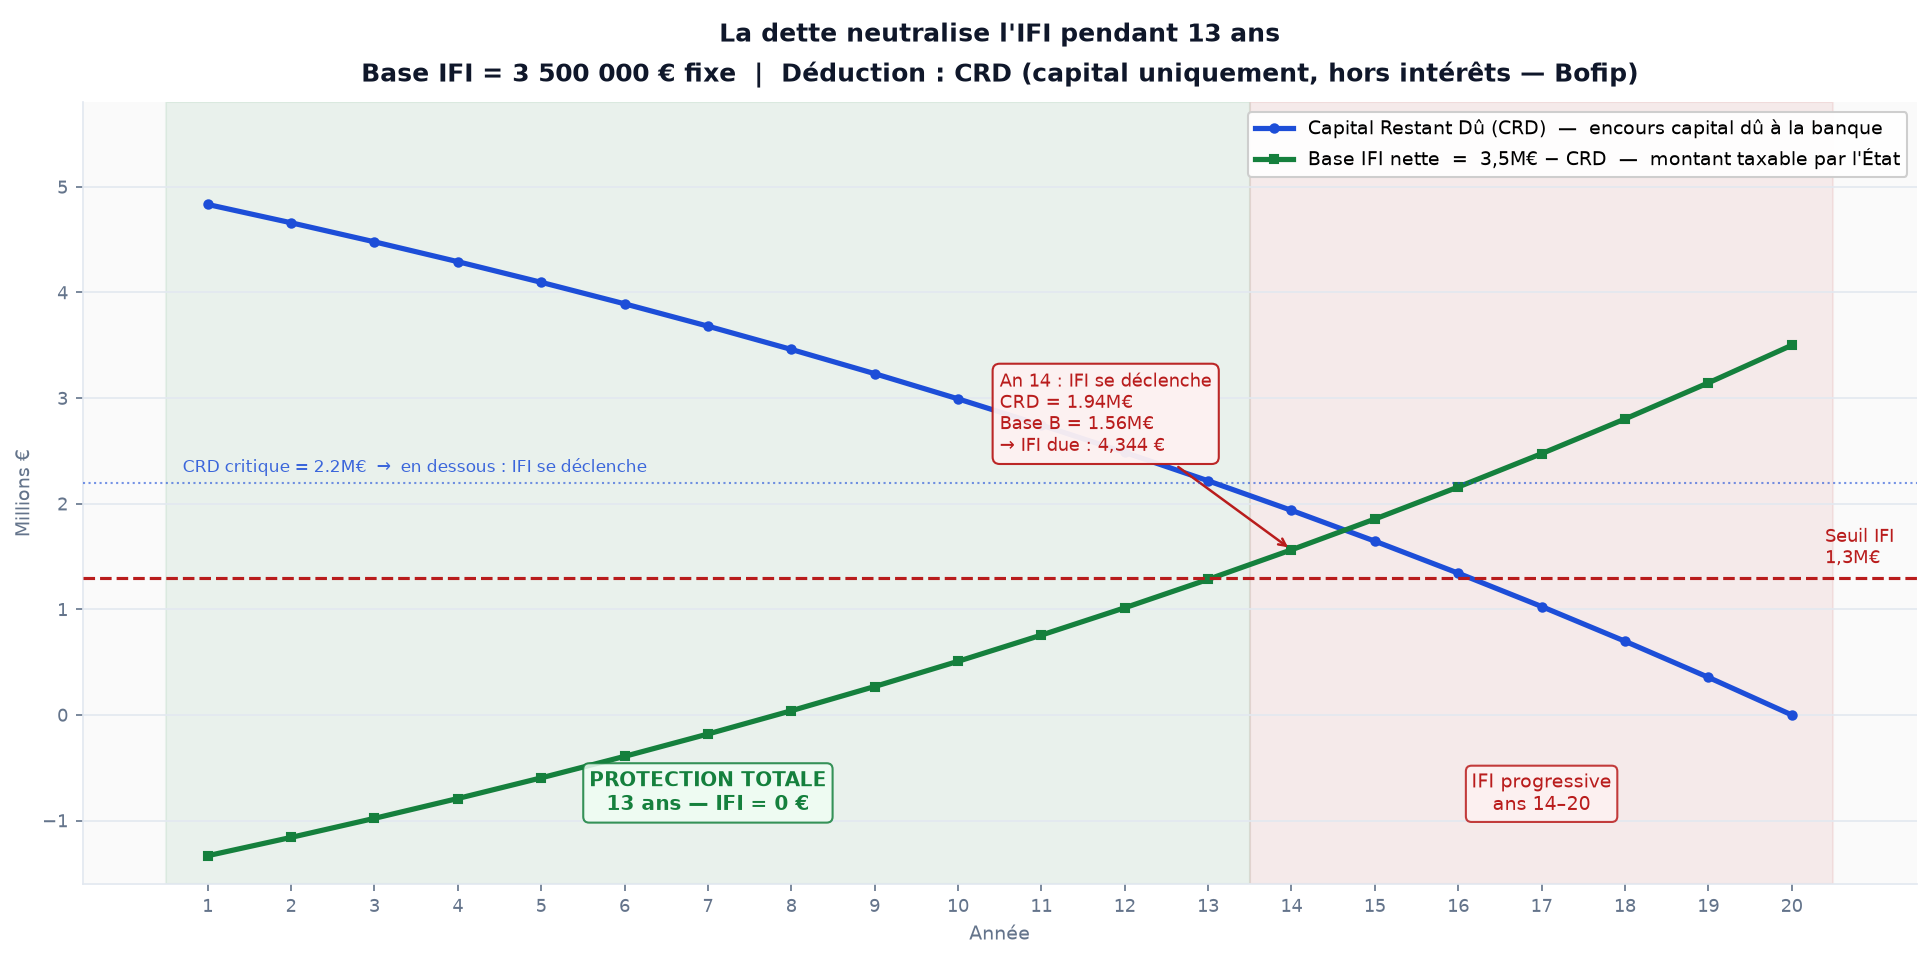
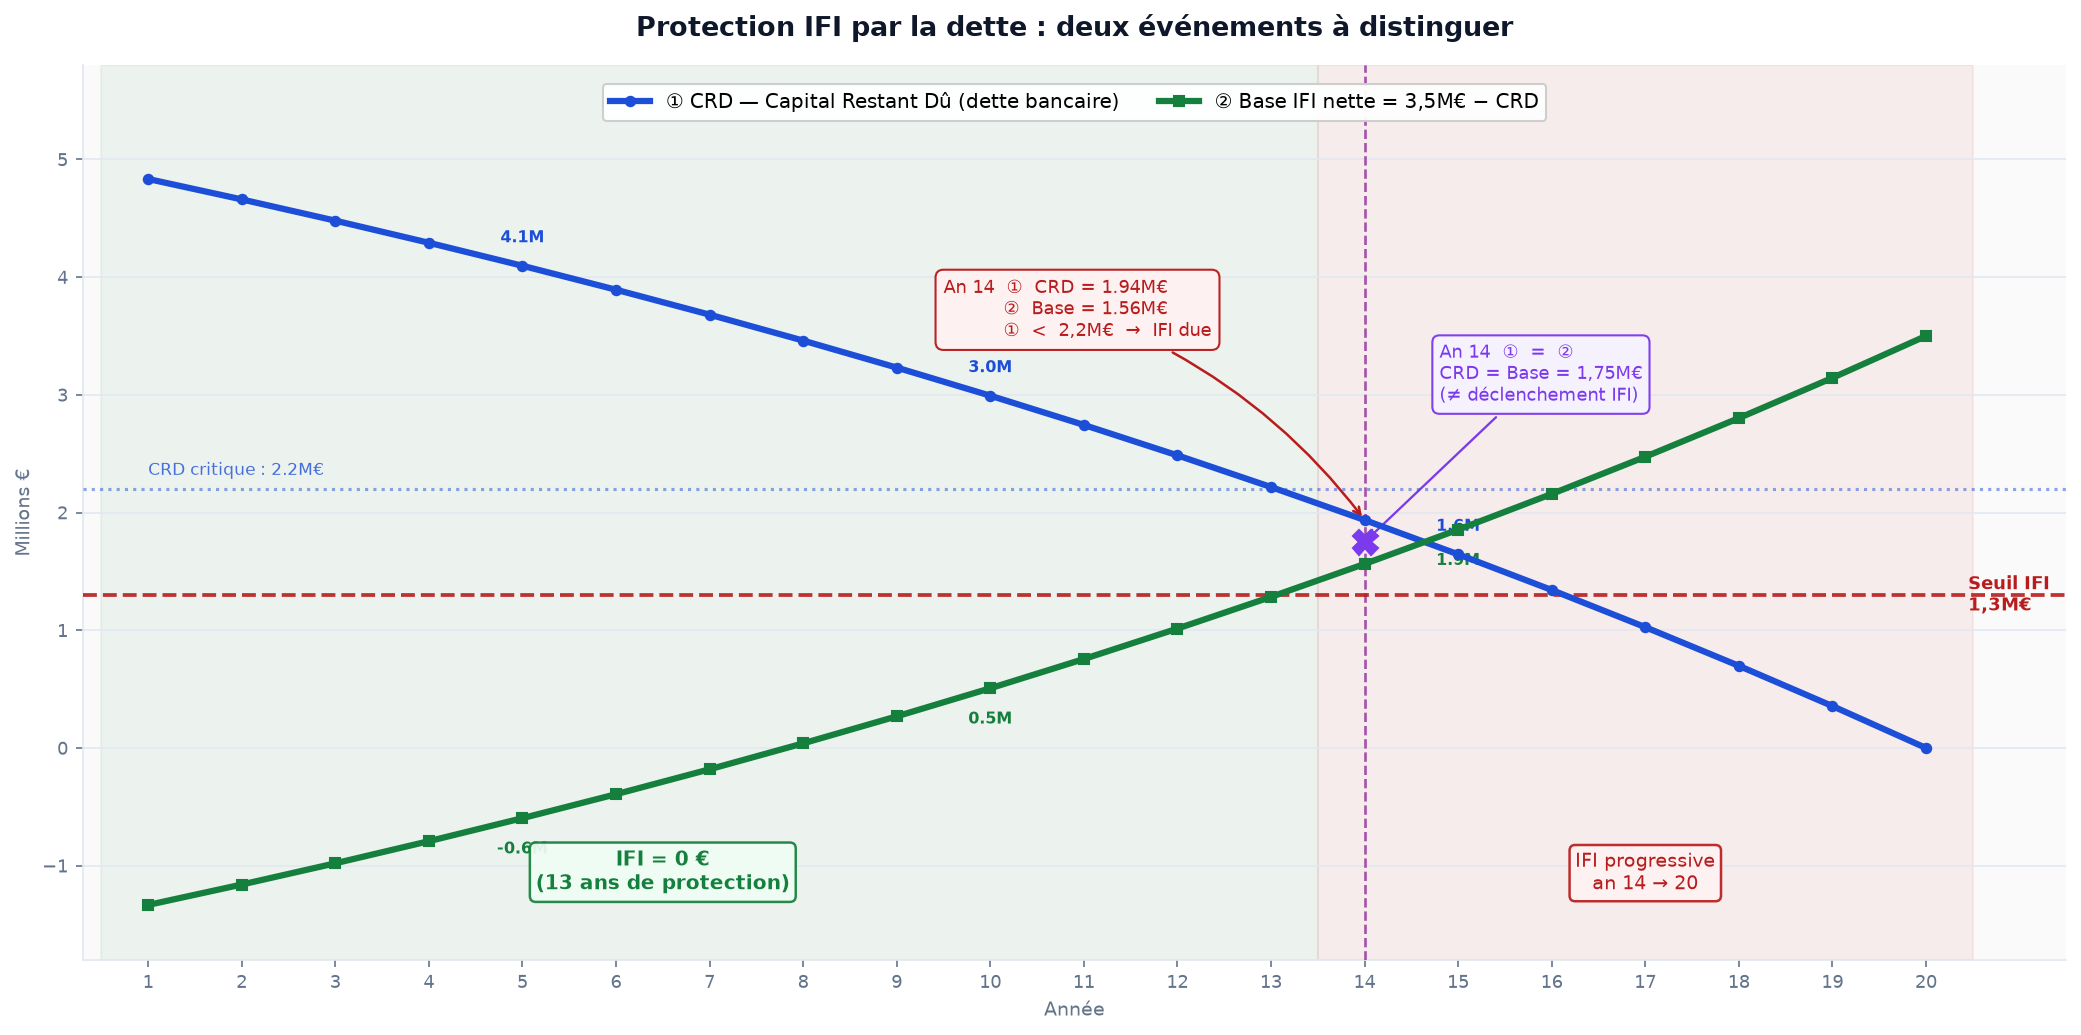
Redesign visuel 1 : deux événements IFI distincts (déclenchement an 14 vs croisement courbes an 17)
Claude-Session: https://claude.ai/code/session_01H9zCSvVdnYm3pCXXkzifcK

diff --git a/graphiques_ifi.py b/graphiques_ifi.py
@@ -138,55 +138,108 @@ def base_ax(ax, title, subtitle='', xlabel='Année', ylabel=''):
     for sp in ['left', 'bottom']: ax.spines[sp].set_color(GRILLE)
 
 # ==============================================================================
-# VISUEL 1 — CRD vs Base IFI (inchangé, toujours correct)
+# VISUEL 1 — CRD vs Base IFI — redesigné : épuré, deux événements distincts
 # ==============================================================================
-fig1, ax = plt.subplots(figsize=(13, 6.5))
+import numpy as np
+
+fig1, ax = plt.subplots(figsize=(14, 7))
 fig1.patch.set_facecolor('white')
+ax.set_facecolor('#FAFAFA')
 
 crds    = [d['crd_fin'] / 1e6 for d in data]
 base_bs = [d['base_B']  / 1e6 for d in data]
 an_decl = next(d['an'] for d in data if d['ifi_B'] > 0)
 
-ax.axvspan(0.5, an_decl - 0.5, alpha=0.07, color=VERT,  zorder=1)
-ax.axvspan(an_decl - 0.5, 20.5, alpha=0.07, color=ROUGE, zorder=1)
+# ── Trouver l'an de croisement des deux courbes (CRD = base_B → CRD = 1,75M€)
+an_crois = next(
+    (data[i]['an'] for i in range(len(data) - 1)
+     if crds[i] >= base_bs[i] and crds[i+1] <= base_bs[i+1]),
+    None
+)
 
-ax.plot(ans, crds,    color=BLEU, lw=2.5, marker='o', ms=4,
-        label='Capital Restant Dû (CRD)  —  encours capital dû à la banque')
-ax.plot(ans, base_bs, color=VERT, lw=2.5, marker='s', ms=4,
-        label='Base IFI nette  =  3,5M€ − CRD  —  montant taxable par l\'État')
+# ── Zones colorées épurées
+ax.axvspan(0.5, an_decl - 0.5, alpha=0.06, color=VERT,  zorder=1)
+ax.axvspan(an_decl - 0.5, 20.5, alpha=0.06, color=ROUGE, zorder=1)
 
-ax.axhline(IFI_SEUIL / 1e6, color=ROUGE, lw=1.5, linestyle='--', zorder=4)
-ax.text(20.4, IFI_SEUIL / 1e6 + 0.08, "Seuil IFI\n1,3M€", fontsize=8.5, color=ROUGE, va='bottom')
+# ── Courbes principales
+ax.plot(ans, crds,    color=BLEU, lw=3, marker='o', ms=4.5, zorder=5,
+        label='① CRD — Capital Restant Dû (dette bancaire)')
+ax.plot(ans, base_bs, color=VERT, lw=3, marker='s', ms=4.5, zorder=5,
+        label='② Base IFI nette = 3,5M€ − CRD')
 
+# ── Ligne seuil IFI 1,3M€
+ax.axhline(IFI_SEUIL / 1e6, color=ROUGE, lw=1.8, linestyle='--', zorder=4, alpha=0.9)
+ax.text(20.45, IFI_SEUIL / 1e6, "Seuil IFI\n1,3M€",
+        fontsize=8.5, color=ROUGE, va='center', fontweight='bold')
+
+# ── Ligne CRD critique 2,2M€
 crd_crit = (BASE_IFI_FIXE - IFI_SEUIL) / 1e6
-ax.axhline(crd_crit, color=BLEU, lw=1, linestyle=':', alpha=0.6, zorder=4)
-ax.text(0.7, crd_crit + 0.1,
-        f"CRD critique = {crd_crit:.1f}M€  →  en dessous : IFI se déclenche",
-        fontsize=8, color=BLEU, alpha=0.85)
+ax.axhline(crd_crit, color=BLEU, lw=1.5, linestyle=':', alpha=0.5, zorder=4)
+ax.text(1, crd_crit + 0.12, f"CRD critique : {crd_crit:.1f}M€",
+        fontsize=8, color=BLEU, alpha=0.8)
 
+# ── ÉVÉNEMENT A : Déclenchement IFI (an 14) — annotation épurée sur la courbe
 d_decl = data[an_decl - 1]
+ax.axvline(an_decl, color=ROUGE, lw=1.2, linestyle='--', alpha=0.6, zorder=3)
+# Encadré mathématique sobre
 ax.annotate(
-    f"An {an_decl} : IFI se déclenche\nCRD = {d_decl['crd_fin']/1e6:.2f}M€\n"
-    f"Base B = {d_decl['base_B']/1e6:.2f}M€\n→ IFI due : {d_decl['ifi_B']:,.0f} €",
-    xy=(an_decl, d_decl['base_B'] / 1e6), xytext=(an_decl - 3.5, 2.5),
+    f"An {an_decl}  ①  CRD = {d_decl['crd_fin']/1e6:.2f}M€\n"
+    f"          ②  Base = {d_decl['base_B']/1e6:.2f}M€\n"
+    f"          ①  <  2,2M€  →  IFI due",
+    xy=(an_decl, d_decl['crd_fin'] / 1e6),
+    xytext=(an_decl - 4.5, 3.5),
     fontsize=8.5, color=ROUGE,
-    arrowprops=dict(arrowstyle='->', color=ROUGE, lw=1.2),
-    bbox=dict(boxstyle='round,pad=0.4', facecolor='#FEF2F2', edgecolor=ROUGE, alpha=0.95))
+    arrowprops=dict(arrowstyle='->', color=ROUGE, lw=1.2, connectionstyle='arc3,rad=-0.15'),
+    bbox=dict(boxstyle='round,pad=0.45', facecolor='#FEF2F2', edgecolor=ROUGE, alpha=0.97))
 
-ax.text((an_decl - 1) / 2 + 0.5, -0.9,
-        f"PROTECTION TOTALE\n{an_decl - 1} ans — IFI = 0 €",
+# ── ÉVÉNEMENT B : Croisement des courbes — si trouvé
+if an_crois:
+    d_crois = data[an_crois - 1]
+    mid_y   = (crds[an_crois - 1] + base_bs[an_crois - 1]) / 2
+    ax.axvline(an_crois, color='#7C3AED', lw=1.2, linestyle='--', alpha=0.55, zorder=3)
+    ax.plot(an_crois, mid_y, marker='X', ms=12, color='#7C3AED', zorder=6)
+    ax.annotate(
+        f"An {an_crois}  ①  =  ②\nCRD = Base = 1,75M€\n(≠ déclenchement IFI)",
+        xy=(an_crois, mid_y),
+        xytext=(an_crois + 0.8, mid_y + 1.2),
+        fontsize=8.5, color='#7C3AED',
+        arrowprops=dict(arrowstyle='->', color='#7C3AED', lw=1.1),
+        bbox=dict(boxstyle='round,pad=0.4', facecolor='#F5F3FF', edgecolor='#7C3AED', alpha=0.97))
+
+# ── Labels directs sur les courbes (an 5 et an 15)
+for an_lbl in [5, 10, 15]:
+    i = an_lbl - 1
+    ax.text(an_lbl, crds[i] + 0.2,    f"{crds[i]:.1f}M",
+            ha='center', fontsize=7.5, color=BLEU, fontweight='bold')
+    ax.text(an_lbl, base_bs[i] - 0.3, f"{base_bs[i]:.1f}M",
+            ha='center', fontsize=7.5, color=VERT, fontweight='bold')
+
+# ── Étiquettes de zone (texte minimal)
+ax.text(6.5, -1.2, f"IFI = 0 €\n(13 ans de protection)",
         ha='center', fontsize=9.5, color=VERT, fontweight='bold',
-        bbox=dict(boxstyle='round', facecolor='#F0FDF4', edgecolor=VERT, alpha=0.85))
-ax.text((an_decl + 20) / 2, -0.9,
-        f"IFI progressive\nans {an_decl}–20",
+        bbox=dict(boxstyle='round', facecolor='#F0FDF4', edgecolor=VERT, lw=1.2, alpha=0.92))
+ax.text(17, -1.2, "IFI progressive\nan 14 → 20",
         ha='center', fontsize=9, color=ROUGE,
-        bbox=dict(boxstyle='round', facecolor='#FEF2F2', edgecolor=ROUGE, alpha=0.85))
+        bbox=dict(boxstyle='round', facecolor='#FEF2F2', edgecolor=ROUGE, lw=1.2, alpha=0.92))
 
-base_ax(ax, "La dette neutralise l'IFI pendant 13 ans",
-    subtitle="Base IFI = 3 500 000 € fixe  |  Déduction : CRD (capital uniquement, hors intérêts — Bofip)",
-    ylabel="Millions €")
-ax.set_ylim(-1.6, 5.8)
-ax.legend(fontsize=9, loc='upper right', framealpha=0.95)
+# ── Titre épuré
+ax.set_title(
+    "Protection IFI par la dette : deux événements à distinguer",
+    fontsize=13, fontweight='bold', color=NOIR, pad=14)
+
+# ── Légende et axes
+ax.legend(fontsize=9.5, loc='upper center', framealpha=0.95,
+          bbox_to_anchor=(0.5, 0.99), ncol=2)
+ax.set_xlabel("Année", fontsize=9, color=GRIS)
+ax.set_ylabel("Millions €", fontsize=9, color=GRIS)
+ax.set_xticks(ans)
+ax.tick_params(colors=GRIS, labelsize=8.5)
+ax.grid(axis='y', color=GRILLE, linewidth=0.8, zorder=0)
+for sp in ['top', 'right']: ax.spines[sp].set_visible(False)
+for sp in ['left', 'bottom']: ax.spines[sp].set_color(GRILLE)
+ax.set_xlim(0.3, 21.5)
+ax.set_ylim(-1.8, 5.8)
+
 plt.tight_layout()
 fig1.savefig('visuel_1_crd_vs_ifi.png', dpi=150, bbox_inches='tight')
 print("✓ visuel_1_crd_vs_ifi.png")
